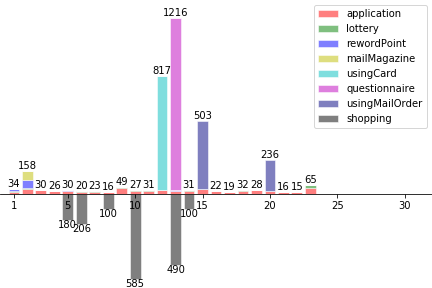
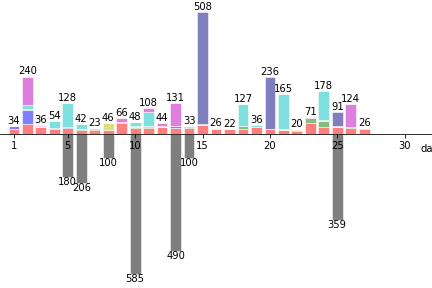
newmyvis.py

diff --git a/myvis/test.py b/myvis/test.py
@@ -1,16 +1,14 @@
 import numpy as np
 import matplotlib.pyplot as plt
 
-plt.axes([0.001, 0.001, 0.998, 0.998])
-
 #データの読み込み
-data = np.loadtxt('point2.txt', dtype='str')
+data = np.loadtxt('pointex.txt', dtype='str')
 
 #print(data)
 
 #データを日付と収入と支出に分ける
-splited_detail = np.hsplit(data[0],[1,8])
-splited_data = np.hsplit(data[1:],[1,8])
+splited_detail = np.hsplit(data[0],[1,3])
+splited_data = np.hsplit(data[1:],[1,3])
 
 #print(splited_data)
 
@@ -23,8 +21,8 @@ income = splited_data[1].astype(np.int)
 expense = splited_data[2].astype(np.int)
 
 #色の定義
-incolors = ['r', 'g', 'b', 'y', 'c', 'm', 'navy', 'pink']
-excolors = ['k']
+incolors = ['r','g']
+excolors = ['b']
 
 #x軸
 X = np.arange(len(date))
@@ -38,7 +36,7 @@ for i in range(income.shape[1]):
         income[:, i],           #y軸(収入)
         bottom = bottoms,       #バーが始まる高さ(積み上げ用)
         color = incolors[i],    #色
-        alpha = .5,             #色の薄さ
+        alpha = .5,            #色の薄さ
         edgecolor = 'white',    #枠の色
         label = indetail[i]     #ラベル
     )
@@ -55,7 +53,7 @@ for i in range(expense.shape[1]):
         -expense[:, i],         #y軸(支出)
         bottom = -bottoms,      #バーが始まる高さ(積み上げ用)
         color = excolors[i],    #色
-        alpha = .5,             #色の薄さ
+        alpha = .5,            #色の薄さ
         edgecolor = 'white',    #枠の色
         label = exdetail[i]     #ラベル
     )
@@ -72,10 +70,9 @@ for x, y1, y2 in zip(X, income_sum, expense_sum):
         plt.text(x, -y2 - 0.05, '%d' %y2, ha='center', va='top')
 
 #グラフの詳細設定
-plt.xlim(0, len(date))
-plt.xticks([1, 5, 10, 15, 20, 25, 30])
-plt.xlabel("date")
-plt.ylim(-max(expense.sum(axis=1))*1.1, max(income.sum(axis=1))*1.1)
+plt.xlim(-.5, len(date))
+plt.xticks(X, date)
+plt.ylim(-max(expense.sum(axis=0))*1.1, max(income.sum(axis=0))*1.1)
 plt.yticks(())
 
 #x軸の作成
@@ -85,11 +82,8 @@ ax.spines['left'].set_color('none')
 ax.spines['top'].set_color('none')
 ax.xaxis.set_ticks_position('bottom')
 ax.spines['bottom'].set_position(('data',0))
-ax.xaxis.set_label_coords(1, .5)
 
-plt.legend(loc="upper left", bbox_to_anchor = (1.01, 1))
+plt.legend(loc="upper right")
 
-# 画像として保存
-plt.savefig("pointglaph.png")
 
 plt.show()

diff --git a/myvis/newmyvis.py b/myvis/newmyvis.py
@@ -1,0 +1,43 @@
+import numpy as np
+import matplotlib.pyplot as plt
+
+plt.axes([0.001, 0.001, 0.998, 0.998])
+
+#データの読み込み
+data = np.loadtxt("newpoint.txt", dtype="str")
+
+
+#データを分ける
+splited_data = np.hsplit(data[1:], [1])
+
+#print(splited_detail)
+#print(splited_data)
+
+#入力を定義
+detail = data[0]
+name = splited_data[0].flatten()
+result = splited_data[1].astype(np.float)
+#print(len(name))
+#print(splited_dataf)
+
+#色の定義
+colors = ['r', 'g', 'b', 'y', 'c', 'm', 'navy', 'pink', 'k']
+
+
+#描画
+for i in range(len(name)):
+    plt.scatter(result[i][1], result[i][0], s=result[i][2]*3, alpha=.5, color = colors[i], edgecolors='black', label = name[i])
+
+#時給千円の線
+x = np.linspace(0, 10, 256, endpoint = True)
+y = x * 1000 / 60
+plt.plot(x, y, label = "Hourly wage 1000 yen")
+
+#グラフの詳細設定
+plt.xlim(0, 10)
+plt.xlabel("needed time (min)")
+plt.ylim(0, 40)
+plt.ylabel("getting point")
+plt.legend(loc = "upper right")
+
+plt.show()
